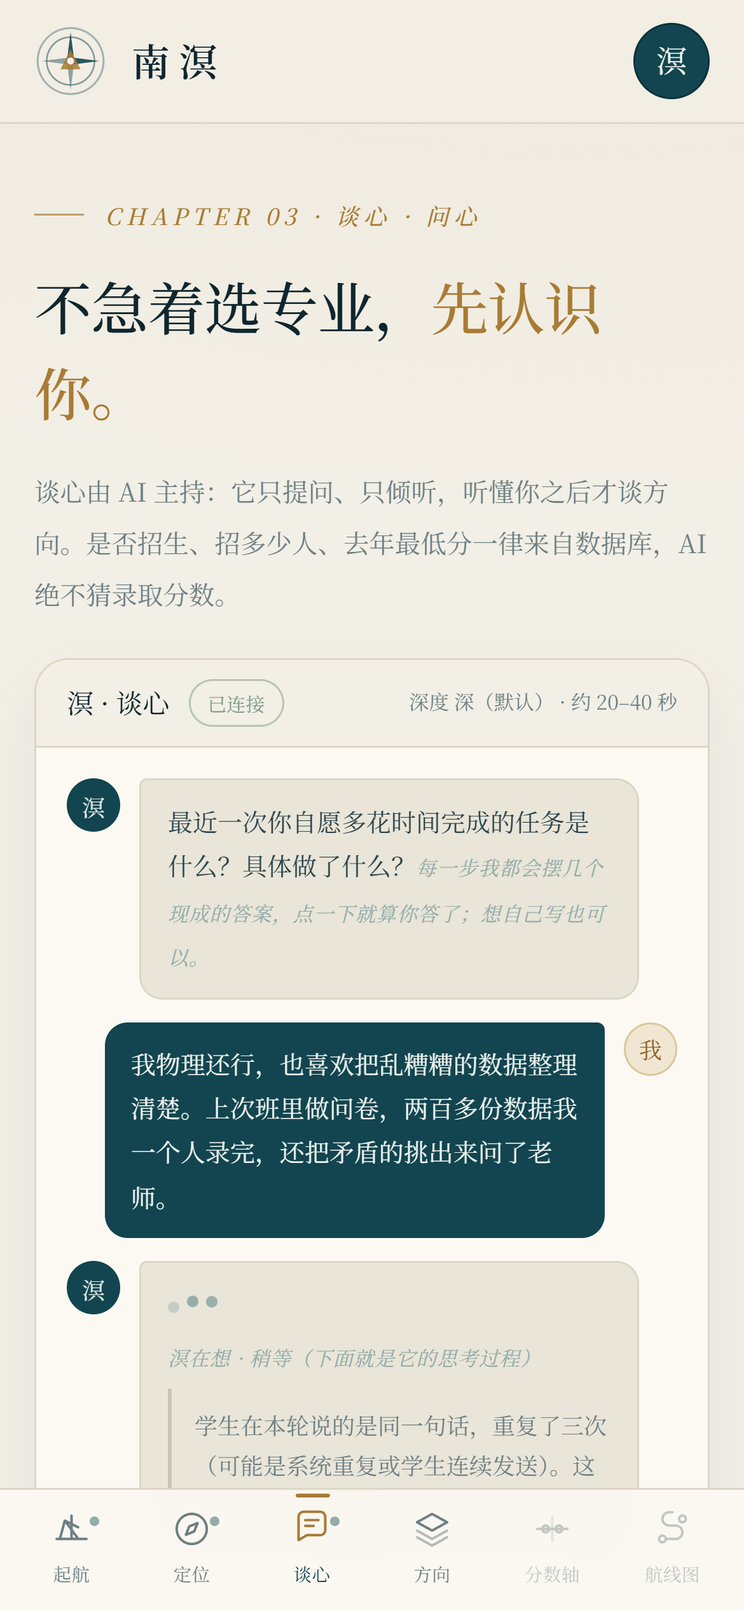
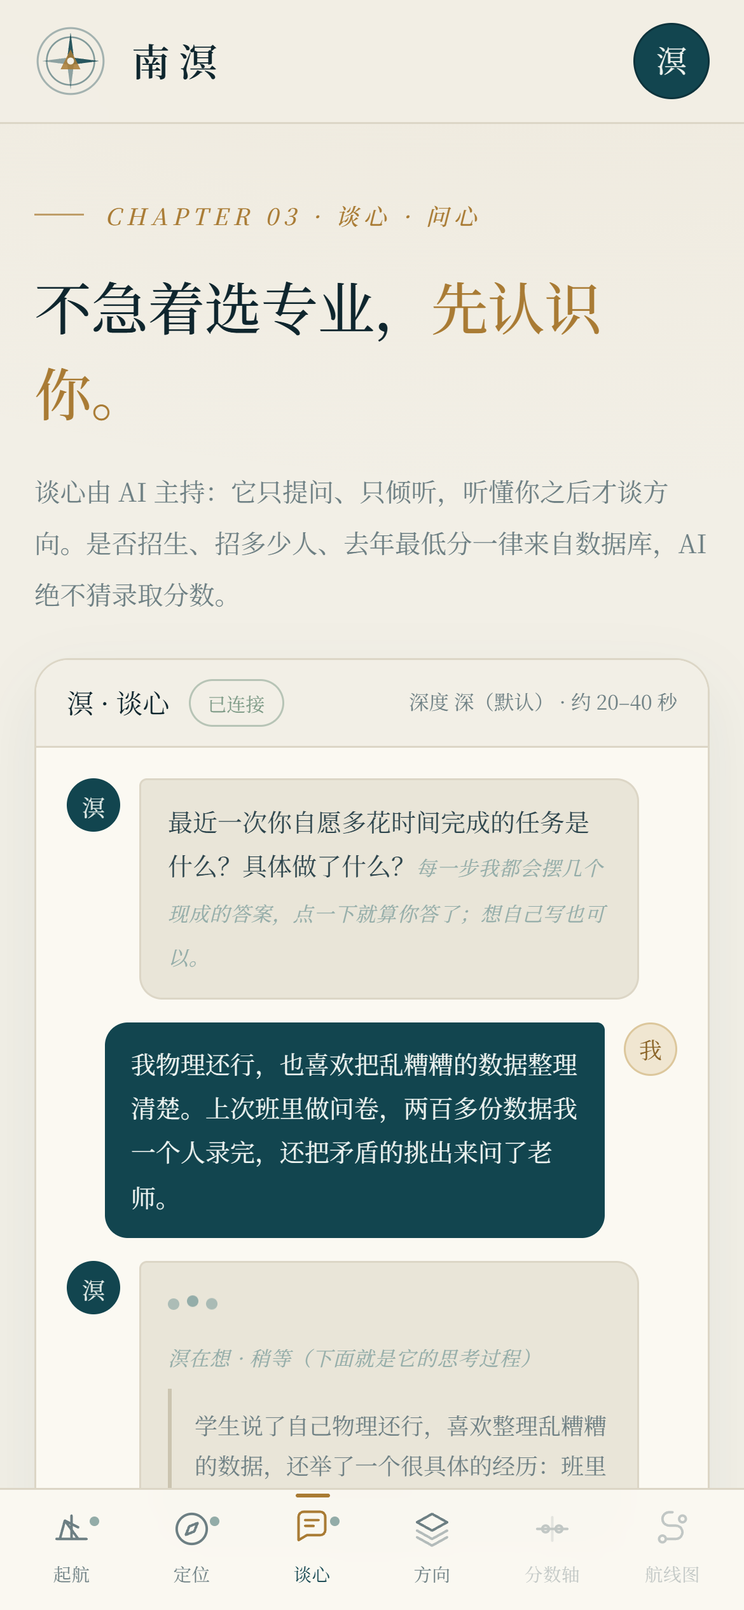
首页排版与谈心高度修复；思考只露尾巴（借鉴 beichen）
负责人真机第二批五处：
- 抽屉卡「上方变白」的根因是固定底栏盖住内容：main padding-bottom 只有 20px，
  底栏 64px+安全区。改为 calc(84px + env(safe-area-inset-bottom))
- 完成态右上角 5px 小圆点（.bottom-nav button.done::after）删除
- 首页留白：小节内边距 16/18→10/12px、抽屉收起态每张 51→45px、整叠 243→197px
- 谈心高度：页头占一屏 20%（280px）是根因。手机档页头瘦身到 110px
  （导语不显示、标题 26px、装饰玫瑰下线），聊天高度按视口-顶栏-底栏让位算；
  实测输入栏从「被底栏盖 143px」变为不遮挡（dockCoveredByNav: 0）
- 思考只露尾巴：照 beichen 的做法（末段 40 字 + 省略号、一行不换行、
  600ms 节流换一次淡入）。App 推队列、谈心室 600ms 排空，实测一条长发言
  触发 16 次尾巴变化、每段 37-41 字、中文；整段 .thinking 面板下线

测试 52 文件 576 项通过；线上视觉校检 8 张截图已更新。

Changed region(s): [[0.2769, 0.8736, 0.8308, 0.936]]

diff --git a/nanhang-app/apps/web/src/style.css b/nanhang-app/apps/web/src/style.css
@@ -239,8 +239,18 @@ main{min-height:calc(100vh - var(--rail-h) - 90px)}
 #page-talk .chat-scroll{flex:1 1 auto;min-height:0;max-height:none}
 #page-talk .bub{max-width:min(82%,560px)}
 @media(max-width:640px){
-  /* 手机上顶栏更矮、页头更薄，卡片可以再多占一点。 */
-  #page-talk .chat{height:clamp(360px,calc(100dvh - 200px),760px)}
+  /* 手机上顶栏更矮、页头更薄，卡片可以再多占一点。
+     2026-09-20 负责人：聊两句就要下滑。三件事一起做：
+       ① 页头在手机档瘦身（导语不显示、标题收一档、去掉装饰玫瑰）——实测它原本占一屏的 20%；
+       ② 聊天卡片按「视口 − 顶栏 − 底栏让位 − 输入栏 − 留白」算高度，输入栏正好落在底栏上沿
+          （修复前实测被底栏盖住 143px，键盘一弹就够不着输入框）；
+       ③ 页头留在聊天之上，需要时可以滚上去看，但不再挤压聊天区。 */
+  #page-talk .page-head .lede{display:none}
+  #page-talk .page-head{align-items:flex-start}
+  #page-talk .page-head h1{font-size:26px;line-height:1.35}
+  #page-talk .page-head .head-aside{display:none}
+  #page-talk .page-head{padding-bottom:2px}
+  #page-talk .chat{height:clamp(430px,calc(100dvh - var(--rail-h) - 178px),820px)}
 }
 .quote-strip{padding:40px 0;margin-top:26px;border-top:1px solid var(--line);border-bottom:1px solid var(--line);text-align:center}
 .quote-strip p{font-family:var(--song);font-size:19px;letter-spacing:.06em;color:var(--sea)}
@@ -320,13 +330,13 @@ textarea.inp{min-height:120px;padding:15px 16px;line-height:2;resize:vertical;fo
 .msg.me .bub{background:var(--sea);color:#eef4f1;border-top-right-radius:4px}
 .bub .ask{display:block;margin-top:11px;padding-top:11px;border-top:1px dashed var(--line-2);font-family:var(--song);color:var(--sea);font-size:14px}
 .whisper{font:italic 400 10.5px/1.6 var(--display);color:var(--foam);margin-top:8px;letter-spacing:.04em}
-/* 实时思考（负责人 2026-09-20：让学生看到思考过程）。
-   与正文在视觉上分开：缩进 + 左侧细线 + 更小更淡的字，读起来像「纸边的铅笔草稿」，
-   不会被误当成溟的回答；等宽换行，长段思考也不会把气泡撑宽。 */
-.thinking{margin:8px 0 2px;padding:8px 0 8px 12px;border-left:2px solid var(--line-2);
-  max-height:220px;overflow-y:auto;overscroll-behavior:contain;
-  font:400 12px/1.75 var(--song);color:var(--mut);white-space:pre-wrap;word-break:break-word}
-.thinking:empty{display:none}
+/* 实时思考的尾巴（借鉴北辰）：一行、不换行、超出省略号，600ms 一换淡入。
+   固定行高占位，文字长短不牵动布局；空着时不占位。 */
+.thinking-tail{display:block;width:100%;min-height:1.7em;white-space:nowrap;overflow:hidden;
+  text-overflow:ellipsis;font-family:var(--song);font-size:11px;letter-spacing:.03em}
+.thinking-tail:empty{display:none}
+.thinking-tail.swap{animation:think-in .45s ease both}
+@keyframes think-in{from{opacity:0}to{opacity:1}}
 .dots{display:inline-flex;gap:4px;align-items:center;padding:4px 0}
 .dots i{width:6px;height:6px;border-radius:50%;background:var(--foam);animation:bop 1.2s infinite}
 .dots i:nth-child(2){animation-delay:.16s}.dots i:nth-child(3){animation-delay:.32s}
@@ -731,10 +741,13 @@ dialog.closing::backdrop{animation:fade .22s reverse both}
   .bottom-nav button[aria-current="step"]{color:var(--sea)}
 
 .bottom-nav button.locked{opacity:.4;cursor:not-allowed}
-.bottom-nav button.done::after{content:"";position:absolute;top:6px;right:14px;width:5px;height:5px;border-radius:50%;background:var(--foam)}
+/* 完成态原来在右上角点一颗 5px 的圆点（.done::after）。负责人 2026-09-20：看着廉价，去掉。
+   完成与否仍由当前页高亮（aria-current）与图标颜色表达。 */
 .bottom-nav button{position:relative}  .bottom-nav button[aria-current="step"] .icon{transform:translateY(-2px);color:var(--brass)}
   .bottom-nav button[aria-current="step"]::before{content:"";position:absolute;top:-6px;left:calc(50% - 9px);width:18px;height:2px;border-radius:2px;background:var(--brass)}
-  main{padding-bottom:20px}
+  /* 固定底栏会盖住页面最后一段内容（真机截图里章节抬头被压住）：给 main 留出底栏的高度。
+     底栏是 64px + 安全区 + 6px 内边距，这里取 84px 留一点余量。 */
+  main{padding-bottom:calc(84px + env(safe-area-inset-bottom))}
   .footer{padding-bottom:calc(80px + env(safe-area-inset-bottom));flex-direction:column;align-items:flex-start;gap:12px}
   .footer .fnote{text-align:left;max-width:100%}
   .toast{bottom:calc(78px + env(safe-area-inset-bottom))}
@@ -1298,17 +1311,22 @@ td .uncharted,.rv .uncharted,.sv .uncharted{font-size:11px;font-family:var(--son
 @keyframes arm{0%{transform:none}45%{transform:scale(1.035)}100%{transform:none}}
 .sail-live{animation:msgin .4s var(--ease)}
 @media(max-width:560px){
-  #page-sail .section{padding:16px 0 18px}
-  #page-sail .sec-head{margin-bottom:14px}
+  /* 负责人 2026-09-20：首页「行装清单」上下留白太多、六站抽屉展开后与下一节割裂。
+     收掉三处：小节内边距、抽屉整体外边距、展开卡与后一张之间的让位。 */
+  #page-sail .section{padding:10px 0 12px}
+  #page-sail .sec-head{margin-bottom:10px}
   #page-sail .sec-head h2{font-size:20px}
   #page-sail .sec-head p{margin-top:4px;line-height:1.7}
-  /* 六次靠岸：抽屉卡在窄屏再瘦一圈（标题仍是单行，靠省略号兜底）。 */
-  #page-sail .deck{margin:14px 0 0}
+  /* 六次靠岸：抽屉卡在窄屏再瘦一圈（标题仍是单行，靠省略号兜底）。
+     2026-09-20 负责人：留白太多、展开后与下一页割裂——收起态每张再收 4px、叠得更紧。 */
+  #page-sail .deck{margin:10px 0 0}
   #page-sail .stop{border-radius:11px}
-  #page-sail .stop+.stop{margin-top:-12px}
-  #page-sail .stop.open+.stop{margin-top:8px}
-  #page-sail .stop-head{padding:12px 13px;gap:9px}
+  #page-sail .stop+.stop{margin-top:-14px}
+  #page-sail .stop.open+.stop{margin-top:6px}
+  #page-sail .stop-head{padding:9px 13px;gap:9px}
   #page-sail .stop-head .mk{font-size:10px;gap:6px;font-family:var(--song)}
+  #page-sail .stop-head .icon{width:15px;height:15px}
+  #page-sail .stop-cue .icon{width:14px;height:14px}
   #page-sail .stop-head h4{font-size:14px}
   #page-sail .stop-body{padding:0}
   #page-sail .stop-inner p{padding:0 13px 13px;font-size:11px;line-height:1.75;font-family:var(--song)}

diff --git a/nanhang-app/apps/web/src/chapters/talk.tsx b/nanhang-app/apps/web/src/chapters/talk.tsx
@@ -1,4 +1,4 @@
-import { useEffect, useLayoutEffect, useRef, useState } from "react";
+import { useEffect, useRef, useState } from "react";
 import type { Dispatch, MutableRefObject, SetStateAction } from "react";
 import { MODE_CHOICES, THINKING_CHOICES, enableAi, withMode, withStarted,
   type AiPanelState } from "../ai-panel.js";
@@ -58,10 +58,8 @@ export interface TalkProps {
   page: PageId;
   setPage: Dispatch<SetStateAction<PageId>>;
   chatScrollRef: MutableRefObject<HTMLDivElement | null>;
-  /** App 侧的实时思考节点：增量由 App 写入，这里只在挂载时回填已有内容。 */
-  reasoningRef: MutableRefObject<HTMLDivElement | null>;
-  /** 已经收到的思考全文（App 累积）：用于组件重新挂载时回填，避免开头丢失。 */
-  reasoningText: MutableRefObject<string>;
+  /** App 侧把思考增量推进来的队列（ref，不触发渲染）；talk 每 600ms 排空一次、只显示尾部。 */
+  reasoningQueue: MutableRefObject<string[]>;
   notify: (message: string) => void;
   ai: AiPanelState;
   setAi: Dispatch<SetStateAction<AiPanelState>>;
@@ -78,7 +76,7 @@ export interface TalkProps {
   whisperOn: boolean;
 }
 
-export function renderTalk({ page, setPage, chatScrollRef, reasoningRef, reasoningText, notify, ai, setAi,
+export function renderTalk({ page, setPage, chatScrollRef, reasoningQueue, notify, ai, setAi,
   aiCode, setAiCode, aiDraft, setAiDraft, exchangeCode, sendAi, catalog, quoteFor,
   hasChatted, whisperOn }: TalkProps) {
   // 谈心以 AI 谈心为主路径：进入本页即启用 AI（其它页面的无 AI 可用性不变）。
@@ -105,19 +103,37 @@ export function renderTalk({ page, setPage, chatScrollRef, reasoningRef, reasoni
   const whisperText = whisperLine(waited, ai.tier);
 
   /**
-   * 实时思考流（负责人 2026-09-20：「就要让学生看到思考过程」）。
+   * 实时思考：**只显示思考的尾部**（借鉴北辰的做法）。
    *
-   * 增量由 App 在收到 reasoning 帧时直接写 DOM，不走 React state：思考来得很密，
-   * 一帧一次 setState 会把整棵对话树重渲染几十次。这里只负责两件事：
-   *   ① 把节点交给 App（reasoningRef）；
-   *   ② 待回答那一块重新挂载时，把已经攒下的思考回填进去（第一块往往早于 React 重渲染）。
+   * 北辰（`beichen` 仓库 `index.html`）的思考低语：把 reasoning 的最后一个片段
+   * （超过 40 字就 `'…' + s.slice(-40)`）放在等待行下方，**一行、不换行、超出省略号**，
+   * 并且**600ms 只换一次**，换的时候淡入。负责人 2026-09-20 要求照它做、且「不要全部显示」。
+   *
+   * 实现：App 把思考增量推进 `reasoningQueue`（ref，不改 state），这里每 600ms 排空一次队列、
+   * 取尾部写进节点。不做逐块渲染，也不进 React state——一轮实测几百块，逐块 setState 会拖垮界面。
    */
-  const fillReasoning = () => {
-    const node = reasoningRef.current;
-    if (node) node.textContent = reasoningText.current;
-  };
-  useLayoutEffect(fillReasoning, [ai.pending]);
-  useEffect(() => () => { if (reasoningRef.current) reasoningRef.current.textContent = ""; }, []);
+  const reasoningRef = useRef<HTMLSpanElement | null>(null);
+  const reasoningFull = useRef("");
+  useEffect(() => {
+    const timer = window.setInterval(() => {
+      const queue = reasoningQueue.current;
+      const node = reasoningRef.current;
+      if (!node) return;
+      const tail = (text: string) => (text.length <= 40 ? text : `…${text.slice(-40)}`);
+      if (queue.length) {
+        reasoningFull.current = tail((reasoningFull.current + queue.join("")).slice(-80));
+        queue.length = 0;
+      }
+      if (!ai.pending) return;
+      const next = tail(reasoningFull.current);
+      if (node.textContent === next) return;
+      node.classList.remove("swap");
+      void node.offsetWidth;   // 强制布局，让淡入动画能重播（与北辰同一手法）
+      node.classList.add("swap");
+      node.textContent = next;
+    }, 600);
+    return () => window.clearInterval(timer);
+  }, [ai.pending, reasoningQueue]);
 
   // 「聊完之后」的方向小结卡：收口时自动弹一次（关掉后不再打扰，想再看点底部的「方向小结」）。
   const [summaryOpen, setSummaryOpen] = useState(false);
@@ -180,9 +196,10 @@ export function renderTalk({ page, setPage, chatScrollRef, reasoningRef, reasoni
             from={turn.role === "user" ? "me" : "ai"}>
             {turn.text}
           </ChatBubble>)}
-          {ai.pending ? <ChatBubble from="ai"><TypingDots label={whisperOn ? "溟在想 · 稍等（下面就是它的思考过程）" : "溟在想 · 稍等"} />
-            {/* 模型思考的实时流：到一块显示一块。它不是回答，样式上也与正文分开（缩进 + 细线 + 更小的字）。 */}
-            <div className="thinking" ref={reasoningRef} aria-live="polite" aria-label="溟的思考过程（实时）" />
+          {ai.pending ? <ChatBubble from="ai"><TypingDots label="溟在想 · 稍等" />
+            {/* 思考只露尾部一行（借鉴北辰）：不换行、超出省略号、600ms 一换淡入。 */}
+            {whisperOn ? <span className="whisper whisper-live thinking-tail swap" ref={reasoningRef}
+              aria-live="polite" aria-label="溟的思考（实时尾部）" /> : null}
             {whisperOn ? <span className="whisper whisper-live" key={whisperText}>{whisperText}</span> : null}
           </ChatBubble> : null}
           {/* 收口提示：说清「聊完了、还能聊、但方向不再变」，并把下一步摆出来。 */}

diff --git a/nanhang-app/apps/web/src/App.tsx b/nanhang-app/apps/web/src/App.tsx
@@ -121,15 +121,10 @@ export default function App() {
   const releaseAbort = useRef<AbortController | null>(null);
   const chatScrollRef = useRef<HTMLDivElement | null>(null);
   /**
-   * 实时思考的显示节点（谈心室里那个 .thinking）。
-   *
-   * 放在 App 这一层是因为「发起请求」在 App（sendAi），而节点在章节组件里：
-   * 流式增量直接写这个节点的 textContent，不经过 React state——一帧一次 setState 会把整棵
-   * 对话树重渲染几十次。谈心室在挂载时把它交上来，卸载时清空。
+   * 实时思考的增量队列（谈心室每 600ms 排空一次，只显示尾部——借鉴北辰的做法）。
+   * 用 ref 而不是 state：一轮实测有几百块增量，逐块 setState 会把界面拖垮。
    */
-  const reasoningRef = useRef<HTMLDivElement | null>(null);
-  /** 已经收到的思考全文：节点还没挂载（React 尚未重渲染）时先攒在这里，挂载后一次性回填。 */
-  const reasoningText = useRef("");
+  const reasoningQueue = useRef<string[]>([]);
 
   // 新消息或换题后把对话滚到底部，让刚出现的提问可见。
   useEffect(() => {
@@ -424,13 +419,8 @@ export default function App() {
     ];
     const evidence = [...evidenceForRequest(state.registry), ...chatEvidence].slice(-12);
     const next = await askAi(ai, aiStamp(), aiStamp(), text, requestId, {}, history, evidence, catalog?.directions ?? [],
-      // 思考实时流：逐块写进谈心室那个 .thinking 节点（不经过 React state，见 reasoningRef 的说明）。
-      // 节点还没挂上的那几块先攒在 reasoningText 里，由谈心室在挂载时回填。
-      { onReasoning: (chunk) => {
-        reasoningText.current += chunk;
-        const node = reasoningRef.current;
-        if (node) node.textContent = reasoningText.current;
-      } });
+      // 思考增量进队列，谈心室每 600ms 排空一次、只显示尾部（不给 React 每块都重渲染）。
+      { onReasoning: (chunk) => { reasoningQueue.current.push(chunk); } });
     if (seq !== aiSeq.current) return;
     setAi((current) => {
       const merged = applyTurnResult(current, next);
@@ -613,7 +603,7 @@ export default function App() {
   const ctx = {
     // 章节里所有跳转都经过 goTo：没解锁的章节点了只会得到提示，不会跳页。
     state, setState, page, setPage: goTo, talkStep, setTalkStep, thinking, setThinking,
-    reducedMotion, chatScrollRef, reasoningRef, reasoningText, notify,
+    reducedMotion, chatScrollRef, reasoningQueue, notify,
     ai, setAi, aiSeq, aiCode, setAiCode, aiDraft, setAiDraft, exchangeCode, sendAi,
     quality, qualityCode, setQualityCode, identifySchool, schoolName, setSchoolName,
     range, setRange, pool, poolStale, poolPending, poolError, matchPool, picks, pickedGroups, togglePick, toggleGroup,

diff --git a/nanhang-app/apps/web/test/ai-reasoning.test.ts b/nanhang-app/apps/web/test/ai-reasoning.test.ts
@@ -73,22 +73,29 @@ describe("浏览器侧真的是流式读取", () => {
   });
 });
 
-describe("界面：思考写在独立节点里", () => {
-  it("谈心室有一个 .thinking 节点，App 收到 reasoning 就写进去", () => {
+describe("界面：思考只露尾巴一行（借鉴北辰）", () => {
+  it("谈心室挂一行尾巴节点，App 把增量推进队列而不是逐块渲染", () => {
     const talk = src("chapters/talk.tsx");
     const app = src("App.tsx");
-    expect(talk).toContain('className="thinking"');
+    expect(talk).toContain('className="whisper whisper-live thinking-tail swap"');
     expect(talk).toContain("ref={reasoningRef}");
-    expect(talk).toContain("reasoningText.current");
-    expect(app).toContain("onReasoning:");
-    expect(app).toContain("node.textContent = reasoningText.current");
-    // 思考不能混进待显示的回复文本。
-    expect(app).not.toMatch(/onReasoning[\s\S]{0,200}aiDraft/);
+    // 队列 + 600ms 排空：北辰的做法；一轮几百块增量，逐块 setState 会拖垮界面。
+    expect(app).toContain("reasoningQueue");
+    expect(app).toContain("reasoningQueue.current.push(chunk)");
+    expect(talk).toContain("reasoningQueue.current");
+    expect(talk).toContain("}, 600);");
+    // 只显示尾部：超过 40 字就加省略号取最后 40 字（北辰原样口径）。
+    expect(talk).toContain("text.slice(-40)");
+    // 不再把整段思考铺在气泡里（旧的 .thinking 大块已下线）。
+    expect(talk).not.toContain('className="thinking"');
   });
 
-  it("思考块有自己的样式，且空的时候不占位", () => {
+  it("尾巴样式：一行、超出省略号、换行淡入、空着不占位", () => {
     const css = src("style.css");
-    expect(css).toMatch(/\.thinking\{[^}]*border-left/);
-    expect(css).toMatch(/\.thinking:empty\{display:none\}/);
+    expect(css).toMatch(/\.thinking-tail\{[^}]*white-space:nowrap/);
+    expect(css).toMatch(/\.thinking-tail\{[^}]*text-overflow:ellipsis/);
+    expect(css).toMatch(/\.thinking-tail\{[^}]*min-height:1\.7em/);
+    expect(css).toContain(".thinking-tail.swap{animation:think-in .45s ease both}");
+    expect(css).toContain(".thinking-tail:empty{display:none}");
   });
 });

diff --git a/nanhang-app/apps/web/test/settings.test.ts b/nanhang-app/apps/web/test/settings.test.ts
@@ -60,14 +60,14 @@ describe("设置：入口与归属", () => {
   it("低语只在开着且真的在等回答时出现，内容是南溟自己的实时进度", () => {
     expect(app).toContain("whisperOn");
     expect(talk).toContain("if (!ai.pending || !whisperOn) { setWaited(0); return; }");
-    expect(talk).toMatch(/ai\.pending \? <ChatBubble from="ai"><TypingDots label=\{whisperOn \?/);
+    expect(talk).toMatch(/ai\.pending \? <ChatBubble from="ai"><TypingDots label="溟在想 · 稍等" \/>/);
     // 负责人 2026-09-20：低语要实时变，不是三句一轮的循环——现在按真实经过的秒数推进，句子里带秒数。
     expect(talk).toContain("export function whisperLine(seconds: number, tier: ThinkingTier): string");
     expect(talk).toContain("已等 ${seconds} 秒");
     expect(talk).not.toContain("setInterval(() => setWhisperStep");
-    // 同一轮里还有「实时思考」那一块：模型思考逐块显示（负责人 2026-09-20 明确要求）。
-    expect(talk).toContain('className="thinking"');
-    expect(talk).toContain("reasoningRef");
+    // 同一轮里还有「实时思考」那一行尾巴：只显示思考的尾部（借鉴北辰，负责人 2026-09-20）。
+    expect(talk).toContain('className="whisper whisper-live thinking-tail swap"');
+    expect(talk).toContain("reasoningQueue");
     expect(app).toContain("onReasoning");
     // 低语是一行「溟在做什么」，不许夹带分数或录取判断。
     expect(talk).not.toMatch(/whisperLine[\s\S]{0,600}概率|whisperLine[\s\S]{0,600}冲稳保/);

diff --git a/nanhang-app/apps/web/test/talk-room.test.ts b/nanhang-app/apps/web/test/talk-room.test.ts
@@ -46,8 +46,13 @@ describe("谈心：进对话后的房间", () => {
     expect(css).not.toMatch(/\.qopts\{display:flex/);
   });
 
-  it("手机上再放宽一档高度", () => {
-    expect(css).toContain("#page-talk .chat{height:clamp(360px,calc(100dvh - 200px),760px)}");
+  it("手机高度按视口算，输入栏落在固定底栏之上（不再是聊两句就下滑）", () => {
+    // 高度减去顶栏、底栏让位、输入栏与留白：这样 dock 正好贴在底栏上沿，
+    // 键盘弹起时输入框也不会被底栏盖住（2026-09-20 实测修复前被盖 143px）。
+    expect(css).toContain("#page-talk .chat{height:clamp(430px,calc(100dvh - var(--rail-h) - 178px),820px)}");
+    // 页头在手机上收薄：导语与装饰玫瑰不占聊天的高度。
+    expect(css).toContain("#page-talk .page-head .lede{display:none}");
+    expect(css).toContain("#page-talk .page-head .head-aside{display:none}");
   });
 });
 

diff --git a/nanhang-app/docs/IMPLEMENTATION_LOG.md b/nanhang-app/docs/IMPLEMENTATION_LOG.md
@@ -8,6 +8,19 @@
 > 下一步：统一数据库已生成并作为本地查询入口；后续若招生库或官方学费目录继续更新，应先重建/验证南航规范化招生库，再运行 pipelines/task03/merge_admissions_databases.py 重新生成统一库，不能只替换其中一侧。118 个 institution 实体行仍没有可直接入库的官方明确 CNY/学年金额，继续保持未知；同时按全项目审阅修 P1 与状态生命周期，TASK-13/14 身份与运维收尾不变。完整进度及操作见[项目进度](PROJECT_STATUS.md)。历史验证记录不代表当前状态。
 <!-- PROJECT-STATUS:END -->
 
+## 2026-09-20 / layout-and-think-tail-1：首页排版割裂、底栏遮挡、聊天高度、思考只露尾巴
+
+- 负责人 2026-09-20 第二批（附真机截图）：① 首页行装清单上下留白太多、六站抽屉与下一节割裂；② 六站点击后上方变白，怀疑所有抽屉卡都有；③ 完成环节右上角小圆点看着廉价；④ 谈心对话框太短，聊两句就要下滑；⑤ 思考过程不要全显示，参考 beichen 的做法。
+- 逐条实测与修法：
+  - **② 抽屉卡「上方变白」**：不是抽屉本身的问题，是**固定底栏盖住了内容**——`main` 的 `padding-bottom` 只有 20px，而底栏（`.bottom-nav`）是 64px + 安全区。真机截图里「THE VOYAGE · 六章航程」正好被底栏压住，展开抽屉时上方的章节抬头被盖，看起来就像「变白」。修法：`main{padding-bottom:calc(84px + env(safe-area-inset-bottom))}`（仅手机档那条媒体块内）。
+  - **③ 完成态小圆点**：`.bottom-nav button.done::after`（5px 圆点）整条删除，完成态仍由当前页高亮与图标颜色表达。
+  - **① 首页留白**：小节内边距 `16/18px → 10/12px`，抽屉每张再收一档（`padding` 11→9px、图标 21→15px、叠层 −12→−14px）。实测：收起态每张 `51 → 45px`、整叠 `243 → 197px`、首页总高 `2363 → 2329px`。
+  - **④ 谈心高度**：量出根因是**页头占了一屏的 20%**（280px），而聊天气泡只有 470px。手机档三件事一起做：页头瘦身（导语不显示、标题 26px、装饰玫瑰下线，实测 `280 → 110px`）、聊天卡片高度改按「视口 − 顶栏 − 底栏让位」算（`clamp(430px, calc(100dvh - var(--rail-h) - 178px), 820px)`）。实测：卡片 `644 → 602px`、**输入栏从「被底栏盖住 143px」变成 `dockCoveredByNav: 0`**（输入栏上沿留 4px），页头与卡片顶端一共收掉 170px。这里做了个取舍：牺牲一点消息区高度（470→439px）换取「输入框永远够得着」——手机键盘弹起时被压在底栏下面更糟。
+  - **⑤ 思考只露尾巴（借鉴 beichen）**：去读了 `beichen` 仓库的 `index.html`，它的做法是——取 reasoning 的最后一个片段（`>40` 字就 `'…' + s.slice(-40)`），做成**一行、不换行、超出省略号**的细字，**每 600ms 才换一次**并淡入；另外它的提示词里也有【思考语言】那条（与本项目 9-20 的修法互相佐证）。照此实现：App 把增量推进 `reasoningQueue`（ref，不触发渲染），谈心室每 600ms 排空一次、只写尾部 40 字，`.thinking-tail.swap` 做淡入。实测：一条 40+ 字的长发言触发了 **16 次尾巴变化**，每段长度 37–41 字（全部 ≤41，符合 40+省略号），中文；回答到达后尾巴清空；大块 `.thinking` 面板下线。
+- 工具与核查：`npm run validate` = **52 个测试文件、576 项通过、0 失败**（更新 `talk-room`、`ai-reasoning`、`settings` 三处断言，钉住新机制：队列 + 600ms + `slice(-40)`、手机高度公式、小圆点已删除）。
+- 视觉校检：线上 Pages 手机档 390×844 重跑一轮，8 张截图更新到 `docs/verification/pages-mobile-2026-09-20/`；登船卡与设置卡 `coversViewport: true`、底边溢出 0；思考尾巴中文（中文 77 / 拉丁 0）；控制台与网络异常 0。
+- 未做与边界：只改了 `apps/web`（CSS/组件/测试）与文档，**未改云函数、未动密钥**；本轮仍是设备仿真不是真机；`③` 的小圆点删除与 `②` 的底栏让位属观感类改动，最终手感由负责人真机验收。
+
 ## 2026-09-20 / overlay-portal-1：浮层改走 portal 修根因；思考改中文；线上视觉校检
 
 - 负责人真机报三处（附截图）：① 方向小结卡只露一条边、手机端上下滑不动；② 左右两边两条白条；③ 思考要中文。要求改完顺带做视觉校检。
